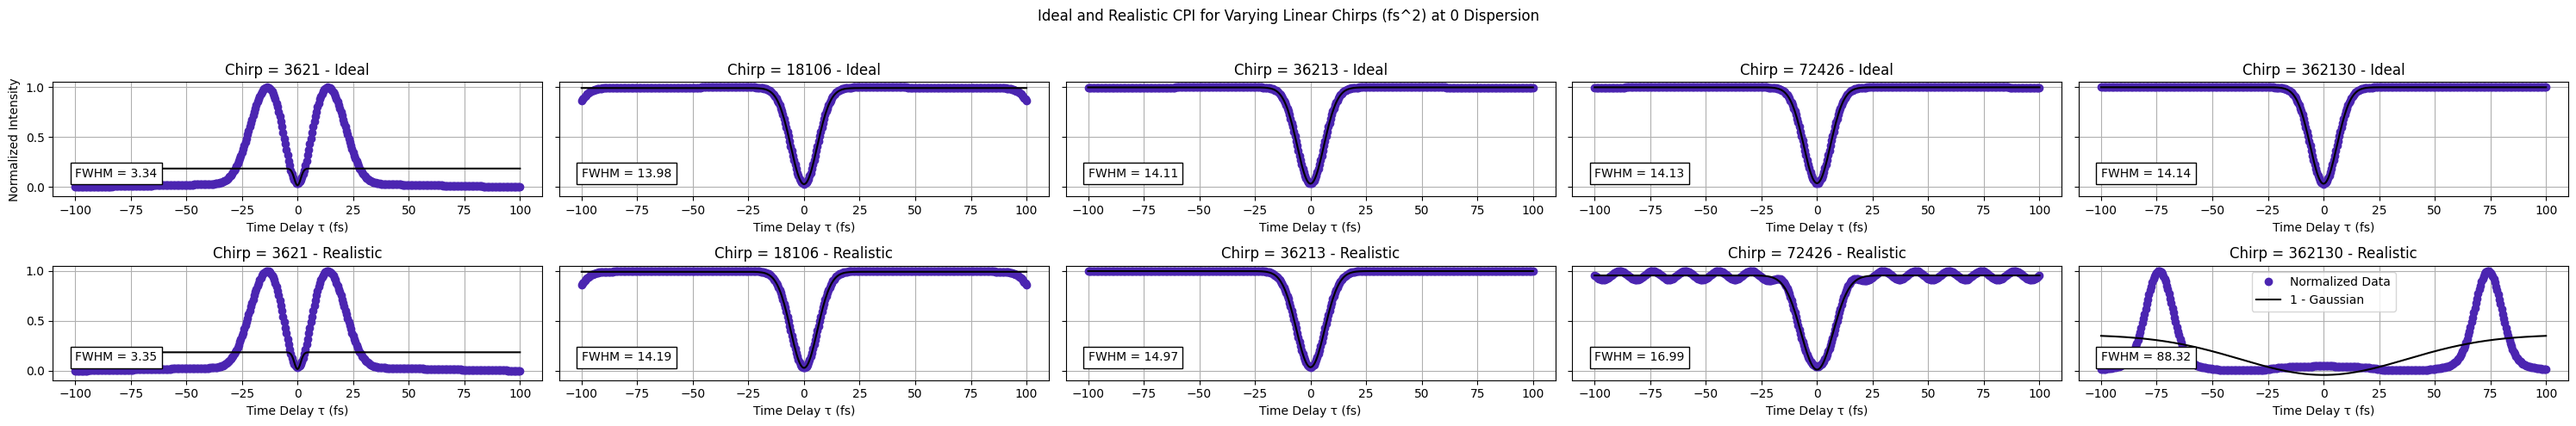
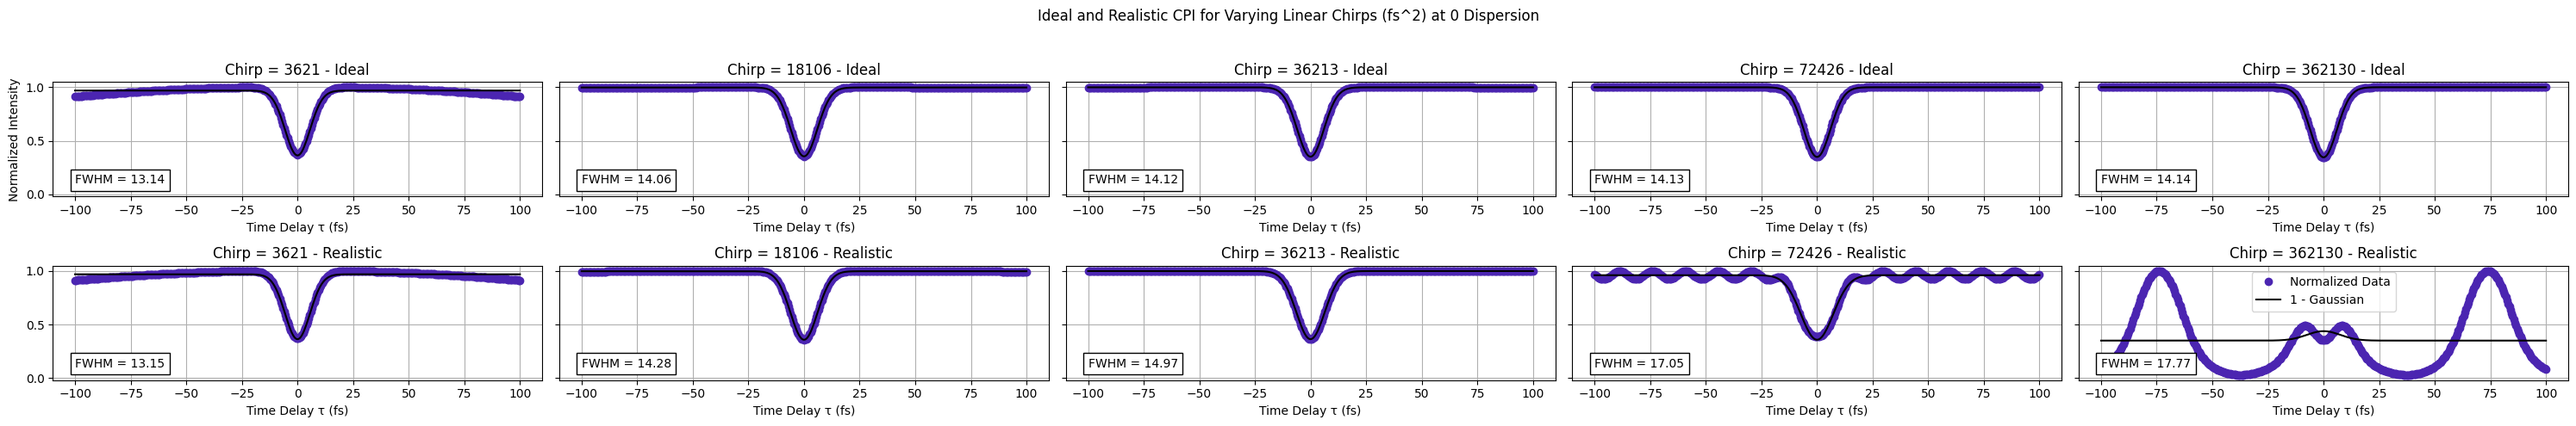
praying

diff --git a/noisy_maker.py b/noisy_maker.py
@@ -9,7 +9,6 @@ import argparse
 from tqdm import tqdm
 import shutil
 from scipy.stats import binned_statistic
-import random
 
 def Ereffer(Ec, Ea, w, tau):
     return (Ec + Ea) * np.exp(1j * w * tau)
@@ -22,7 +21,7 @@ def Esampler(Ec, Ea, phi):
 #Choose from "BK7", "Fused Silica", "Sapphire", "CaF2", or "SF10"
 def glass_type_epsilon(w, w0, material="BK7"):
     
-    c = 0.2998 #(*um/fs*)
+    c = 0.2998; #(*um/fs*)
     match material:
         case "BK7":
             b1 = 1.03961212 #(*for BK7 glass*)
@@ -231,7 +230,7 @@ def realistic_SLM_mask(mask_indices, ws):
 
     return SLM_mask
 
-def realistic_SLM_phase(ws, phase, mask_indices, num_pixels = 800, bit_depth = 2**8, noise_level = 0, noise_type = "gaussian"):
+def realistic_SLM_phase(ws, phase, mask_indices, num_pixels = 800, bit_depth = 2**8):
   
     ws_mod = ws[mask_indices]
     phi_mod = phase[mask_indices]  # UNWRAPPED phase!
@@ -249,37 +248,10 @@ def realistic_SLM_phase(ws, phase, mask_indices, num_pixels = 800, bit_depth = 2
     # Step 3: Wrap the binned phase
     phi_test = np.mod(phi_test, 2*np.pi)
 
-    gaussian_phi = np.copy(phi_test)
-
     #Step 4: Bit crushing
     phi_test = np.round(phi_test/(2*np.pi)*(bit_depth - 1))
     phi_test = phi_test/(bit_depth - 1) * np.pi * 2
 
-    binned_phi = np.copy(phi_test)
-
-    if noise_level != 0:
-        
-        #if uncertainty is gaussian, each phase point can have a random value with an x degree gaussian distribution centered on actual
-        #value, then do bit crushing as normal
-        if noise_type == "gaussian":
-            #trying to add in the random phase part
-            uncertainty_rad = noise_level*np.pi/180
-
-            for i in range(0, len(edge_indices) - 1):
-                gaussian_phi[edge_indices[i]:edge_indices[i+1]] = random.gauss(phi_test[edge_indices[i]], uncertainty_rad)
-            
-            gaussian_phi = np.round(gaussian_phi/(2*np.pi)*(bit_depth - 1))
-            gaussian_phi = gaussian_phi/(bit_depth - 1) * np.pi * 2
-
-            return gaussian_phi
-        
-        #if uncertainty is in bins, (e.g. noise level = 1), then value of ith bin is random within range of that many bins (e.g. i-1, i, i+1)
-        elif noise_type == "binned":
-            for i in range(noise_level, len(edge_indices) - 1 - noise_level):
-                binned_phi[edge_indices[i]:edge_indices[i+1]] = random.choice(phi_test[edge_indices[i - noise_level:i + noise_level + 1]])
-
-            return binned_phi
-     
     return phi_test
 
 '''
@@ -344,7 +316,6 @@ if __name__ == "__main__":
     parser.add_argument("--lin_chirp", type=int, default=-1)
     parser.add_argument("--erf_chirp", type=int, default=-1)
     parser.add_argument("--super_erf_chirp", type=int, default=-1)
-    parser.add_argument("--noise", action="store_false")
 
     args = parser.parse_args()
 
@@ -366,7 +337,6 @@ if __name__ == "__main__":
     max_lin_chirp = args.lin_chirp
     max_erf_chirp = args.erf_chirp
     max_superf_chirp = args.super_erf_chirp
-    noise = args.noise
 
     #################################
 
@@ -385,7 +355,7 @@ if __name__ == "__main__":
     SLM_mask = realistic_SLM_mask(mask_indices, ws)
     superf_SLM_mask = realistic_SLM_mask(superf_indices, ws)
 
-    
+
     # Remove existing folders (if not no_overwrite)
     folder = f"results/{folder_name}"
 
@@ -406,7 +376,6 @@ if __name__ == "__main__":
         f.write(f"{max_lin_chirp}\n")
         f.write(f"{max_erf_chirp}\n")
         f.write(f"{max_superf_chirp}\n")
-        f.write(f"{noise}\n")
         
 
     with open(f"results/{folder_name}/run_info.txt", 'w') as f:
@@ -420,7 +389,6 @@ if __name__ == "__main__":
         f.write(f"Estimated Max Linear Chirp: {max_lin_chirp}\n")
         f.write(f"Estimated Max Erf Chirp: {max_erf_chirp}\n")
         f.write(f"Estimated Max Super Erf Chirp: {max_superf_chirp}\n")
-        f.write(f"Noise Added: {noise}\n")
 
     print(f"📊 Sweeping {len(Lvals)} dispersion values")
 
@@ -429,7 +397,6 @@ if __name__ == "__main__":
 
     ws[0] = 1e-6
 
-    
     match dispersion_type:
         case "freshwater":
             epsilon = water_epsilon(ws, w_0, S = 0)
@@ -455,137 +422,59 @@ if __name__ == "__main__":
     def p(chirp_type, chirp, style):
         return f"./results/{folder_name}/{chirp_type}/chirp_{chirp}/{style}"
     
-    def p_noisy(chirp_type, noise_style, noise):
-        return f"./results/{folder_name}/{chirp_type}/{noise_style}_noise/{noise}"
+    # Create necessary folders
+    for style in ["gaussian", "binned"]:
+        os.makedirs(f"results/{folder_name}/linear/{style}", exist_ok=True)
+        os.makedirs(f"results/{folder_name}/erf/{style}", exist_ok=True)
+        os.makedirs(f"results/{folder_name}/super_erf/{style}", exist_ok=True)
 
-    #if running with noise is selected: this will just run at one chirp, but five different noise values (hardcoded), for both 
-    #gaussian and binned noise
-    if noise:
-        gaussian_noises = [0,5,10,15,20]
-        binned_noises = [0,1,2,4,6]
+    # Phase generation
+    lin_phase = lin_chirp(lin_chirps[i], ws, w_0)
+    erf_phase = erf_chirp(erf_chirps[i], ws, w_0, fwhm)
+    superf_phase = superf_chirp(superf_chirps[i], ws, w_0, sigma_s)
 
-        for style, noise in zip(["gaussian", "binned"], [gaussian_noises, binned_noises]):
-                for i in range(5):
-                    os.makedirs(f"results/{folder_name}/linear/{style}_noise/{noise[i]}", exist_ok=True)
-                    os.makedirs(f"results/{folder_name}/erf/{style}_noise/{noise[i]}", exist_ok=True)
-                    os.makedirs(f"results/{folder_name}/super_erf/{style}_noise/{noise[i]}", exist_ok=True)
+    Ec_lin_ideal = chirper(Ews, lin_phase)
+    Ea_lin_ideal = chirper(Ews, -lin_phase)
+    Ec_erf_ideal = chirper(Ews, erf_phase)
+    Ea_erf_ideal = chirper(Ews, -erf_phase)
+    Ec_superf_ideal = chirper(Ews, superf_phase)
+    Ea_superf_ideal = chirper(Ews, -superf_phase)
 
-        lin_phase = lin_chirp(max_lin_chirp, ws, w_0)
-        erf_phase = erf_chirp(max_erf_chirp, ws, w_0, fwhm)
-        superf_phase = superf_chirp(max_superf_chirp, ws, w_0, sigma_s)
+    lin_phase_realistic = realistic_SLM_phase(ws, lin_phase, mask_indices, num_pixels, bit_levels)
+    erf_phase_realistic = realistic_SLM_phase(ws, erf_phase, mask_indices, num_pixels, bit_levels)
+    superf_phase_realistic = realistic_SLM_phase(ws, superf_phase, superf_indices, num_pixels, bit_levels)
 
-        for i in range(5):
-            lin_gauss = realistic_SLM_phase(ws, lin_phase, mask_indices, num_pixels, bit_levels, gaussian_noises[i], "gaussian")
-            erf_gauss = realistic_SLM_phase(ws, erf_phase, mask_indices, num_pixels, bit_levels, gaussian_noises[i], "gaussian")
-            superf_gauss = realistic_SLM_phase(ws, superf_phase, superf_indices, num_pixels, bit_levels, gaussian_noises[i], "gaussian")
+    Ec_lin_realistic = chirper(Ews, lin_phase_realistic) * SLM_mask
+    Ea_lin_realistic = chirper(Ews, -lin_phase_realistic) * SLM_mask
+    Ec_erf_realistic = chirper(Ews, erf_phase_realistic) * SLM_mask
+    Ea_erf_realistic = chirper(Ews, -erf_phase_realistic) * SLM_mask
+    Ec_superf_realistic = chirper(Ews, superf_phase_realistic) * superf_SLM_mask
+    Ea_superf_realistic = chirper(Ews, -superf_phase_realistic) * superf_SLM_mask
 
-            lin_bin = realistic_SLM_phase(ws, lin_phase, mask_indices, num_pixels, bit_levels, binned_noises[i], "binned")
-            erf_bin = realistic_SLM_phase(ws, erf_phase, mask_indices, num_pixels, bit_levels, binned_noises[i], "binned")
-            superf_bin = realistic_SLM_phase(ws, superf_phase, superf_indices, num_pixels, bit_levels, binned_noises[i], "binned")
+    for L in Lvals:
+        
+        if no_overwrite:
+            if not os.path.exists(p("linear", lin_chirps[i],"ideal") + f"/L{L}.txt"):
+                tasks.append((L, Ec_lin_ideal, Ea_lin_ideal, ws, taus, epsilon, integration_range, p("linear", lin_chirps[i], "ideal")))
+            if not os.path.exists(p("erf", erf_chirps[i], "ideal") + f"/L{L}.txt"):
+                tasks.append((L, Ec_erf_ideal, Ea_erf_ideal, ws, taus, epsilon, integration_range, p("erf", erf_chirps[i], "ideal")))
+            if not os.path.exists(p("super_erf", superf_chirps[i], "ideal") + f"/L{L}.txt"):
+                tasks.append((L, Ec_superf_ideal, Ea_superf_ideal, ws, taus, epsilon, integration_range, p("super_erf", superf_chirps[i],"ideal")))
 
-            Ec_lin_gauss = chirper(Ews, lin_gauss) * SLM_mask
-            Ea_lin_gauss = chirper(Ews, -lin_gauss) * SLM_mask
-            Ec_erf_gauss = chirper(Ews, erf_gauss) * SLM_mask
-            Ea_erf_gauss = chirper(Ews, -erf_gauss) * SLM_mask
-            Ec_superf_gauss = chirper(Ews, superf_gauss) * superf_SLM_mask
-            Ea_superf_gauss = chirper(Ews, -superf_gauss) * superf_SLM_mask
+            if not os.path.exists(p("linear", lin_chirps[i], "realistic") + f"/L{L}.txt"):
+                tasks.append((L, Ec_lin_realistic, Ea_lin_realistic, ws, taus, epsilon, integration_range, p("linear", lin_chirps[i], "realistic")))
+            if not os.path.exists(p("erf", erf_chirps[i], "realistic") + f"/L{L}.txt"):
+                tasks.append((L, Ec_erf_realistic, Ea_erf_realistic, ws, taus, epsilon, integration_range, p("erf", erf_chirps[i], "realistic")))
+            if not os.path.exists(p("super_erf", superf_chirps[i], "realistic") + f"/L{L}.txt"):
+                tasks.append((L, Ec_superf_realistic, Ea_superf_realistic, ws, taus, epsilon, integration_range, p("super_erf", superf_chirps[i], "realistic")))
+        else:
+            tasks.append((L, Ec_lin_ideal, Ea_lin_ideal, ws, taus, epsilon, integration_range, p("linear", lin_chirps[i], "ideal")))
+            tasks.append((L, Ec_erf_ideal, Ea_erf_ideal, ws, taus, epsilon, integration_range, p("erf", erf_chirps[i], "ideal")))
+            tasks.append((L, Ec_superf_ideal, Ea_superf_ideal, ws, taus, epsilon, integration_range, p("super_erf", superf_chirps[i], "ideal")))
 
-            Ec_lin_bin = chirper(Ews, lin_bin) * SLM_mask
-            Ea_lin_bin = chirper(Ews, -lin_bin) * SLM_mask
-            Ec_erf_bin = chirper(Ews, erf_bin) * SLM_mask
-            Ea_erf_bin = chirper(Ews, -erf_bin) * SLM_mask
-            Ec_superf_bin = chirper(Ews, superf_bin) * superf_SLM_mask
-            Ea_superf_bin = chirper(Ews, -superf_bin) * superf_SLM_mask
-
-            for L in Lvals:
-                
-                if no_overwrite:
-                    if not os.path.exists(p_noisy("linear", "gaussian", gaussian_noises[i]) + f"/L{L}.txt"):
-                        tasks.append((L, Ec_lin_gauss, Ea_lin_gauss, ws, taus, epsilon, integration_range, p_noisy("linear", "gaussian", gaussian_noises[i])))
-                    if not os.path.exists(p_noisy("erf", "gaussian", gaussian_noises[i]) + f"/L{L}.txt"):
-                        tasks.append((L, Ec_erf_gauss, Ea_erf_gauss, ws, taus, epsilon, integration_range, p_noisy("erf", "gaussian", gaussian_noises[i])))
-                    if not os.path.exists(p_noisy("super_erf", "gaussian", gaussian_noises[i]) + f"/L{L}.txt"):
-                        tasks.append((L, Ec_superf_gauss, Ea_superf_gauss, ws, taus, epsilon, integration_range, p_noisy("super_erf", "gaussian", gaussian_noises[i])))
-
-                    if not os.path.exists(p_noisy("linear", "binned", binned_noises[i]) + f"/L{L}.txt"):
-                        tasks.append((L, Ec_lin_bin, Ea_lin_bin, ws, taus, epsilon, integration_range, p_noisy("linear", "binned", binned_noises[i])))
-                    if not os.path.exists(p_noisy("erf", "binned", binned_noises[i]) + f"/L{L}.txt"):
-                        tasks.append((L, Ec_erf_bin, Ea_erf_bin, ws, taus, epsilon, integration_range, p_noisy("erf", "binned", binned_noises[i])))
-                    if not os.path.exists(p_noisy("super_erf", "binned", binned_noises[i]) + f"/L{L}.txt"):
-                        tasks.append((L, Ec_superf_bin, Ea_superf_bin, ws, taus, epsilon, integration_range, p_noisy("super_erf", "binned", binned_noises[i])))
-                else:
-                    tasks.append((L, Ec_lin_gauss, Ea_lin_gauss, ws, taus, epsilon, integration_range, p_noisy("linear", "gaussian", gaussian_noises[i])))
-                    tasks.append((L, Ec_erf_gauss, Ea_erf_gauss, ws, taus, epsilon, integration_range, p_noisy("erf", "gaussian", gaussian_noises[i])))
-                    tasks.append((L, Ec_superf_gauss, Ea_superf_gauss, ws, taus, epsilon, integration_range, p_noisy("super_erf", "gaussian", gaussian_noises[i])))
-
-                    tasks.append((L, Ec_lin_bin, Ea_lin_bin, ws, taus, epsilon, integration_range, p_noisy("linear", "binned", binned_noises[i])))
-                    tasks.append((L, Ec_erf_bin, Ea_erf_bin, ws, taus, epsilon, integration_range, p_noisy("erf", "binned", binned_noises[i])))
-                    tasks.append((L, Ec_superf_bin, Ea_superf_bin, ws, taus, epsilon, integration_range, p_noisy("super_erf", "binned", binned_noises[i])))
-
-
-
-    #if noise isnt selected, will run at five chirp values (hardcoded), for realistic and ideal SLM cases
-    else:
-        lin_chirps = [round(num) for num in [max_lin_chirp/10, max_lin_chirp/2, max_lin_chirp, 2*max_lin_chirp, 10*max_lin_chirp]]
-        erf_chirps = [round(num) for num in [max_erf_chirp/10, max_erf_chirp/2, max_erf_chirp, 2*max_erf_chirp, 10*max_erf_chirp]]
-        superf_chirps = [round(num) for num in [max_superf_chirp/10, max_superf_chirp/2, max_superf_chirp, 2*max_superf_chirp, 10*max_superf_chirp]]
-
-
-        for i in range(5):
-
-            # Create necessary folders
-            for style in ["ideal", "realistic"]:
-                os.makedirs(f"results/{folder_name}/linear/chirp_{lin_chirps[i]}/{style}", exist_ok=True)
-                os.makedirs(f"results/{folder_name}/erf/chirp_{erf_chirps[i]}/{style}", exist_ok=True)
-                os.makedirs(f"results/{folder_name}/super_erf/chirp_{superf_chirps[i]}/{style}", exist_ok=True)
-
-            # Phase generation
-            lin_phase = lin_chirp(lin_chirps[i], ws, w_0)
-            erf_phase = erf_chirp(erf_chirps[i], ws, w_0, fwhm)
-            superf_phase = superf_chirp(superf_chirps[i], ws, w_0, sigma_s)
-
-            Ec_lin_ideal = chirper(Ews, lin_phase)
-            Ea_lin_ideal = chirper(Ews, -lin_phase)
-            Ec_erf_ideal = chirper(Ews, erf_phase)
-            Ea_erf_ideal = chirper(Ews, -erf_phase)
-            Ec_superf_ideal = chirper(Ews, superf_phase)
-            Ea_superf_ideal = chirper(Ews, -superf_phase)
-
-            lin_phase_realistic = realistic_SLM_phase(ws, lin_phase, mask_indices, num_pixels, bit_levels)
-            erf_phase_realistic = realistic_SLM_phase(ws, erf_phase, mask_indices, num_pixels, bit_levels)
-            superf_phase_realistic = realistic_SLM_phase(ws, superf_phase, superf_indices, num_pixels, bit_levels)
-
-            Ec_lin_realistic = chirper(Ews, lin_phase_realistic) * SLM_mask
-            Ea_lin_realistic = chirper(Ews, -lin_phase_realistic) * SLM_mask
-            Ec_erf_realistic = chirper(Ews, erf_phase_realistic) * SLM_mask
-            Ea_erf_realistic = chirper(Ews, -erf_phase_realistic) * SLM_mask
-            Ec_superf_realistic = chirper(Ews, superf_phase_realistic) * superf_SLM_mask
-            Ea_superf_realistic = chirper(Ews, -superf_phase_realistic) * superf_SLM_mask
-
-            for L in Lvals:
-                
-                if no_overwrite:
-                    if not os.path.exists(p("linear", lin_chirps[i],"ideal") + f"/L{L}.txt"):
-                        tasks.append((L, Ec_lin_ideal, Ea_lin_ideal, ws, taus, epsilon, integration_range, p("linear", lin_chirps[i], "ideal")))
-                    if not os.path.exists(p("erf", erf_chirps[i], "ideal") + f"/L{L}.txt"):
-                        tasks.append((L, Ec_erf_ideal, Ea_erf_ideal, ws, taus, epsilon, integration_range, p("erf", erf_chirps[i], "ideal")))
-                    if not os.path.exists(p("super_erf", superf_chirps[i], "ideal") + f"/L{L}.txt"):
-                        tasks.append((L, Ec_superf_ideal, Ea_superf_ideal, ws, taus, epsilon, integration_range, p("super_erf", superf_chirps[i],"ideal")))
-
-                    if not os.path.exists(p("linear", lin_chirps[i], "realistic") + f"/L{L}.txt"):
-                        tasks.append((L, Ec_lin_realistic, Ea_lin_realistic, ws, taus, epsilon, integration_range, p("linear", lin_chirps[i], "realistic")))
-                    if not os.path.exists(p("erf", erf_chirps[i], "realistic") + f"/L{L}.txt"):
-                        tasks.append((L, Ec_erf_realistic, Ea_erf_realistic, ws, taus, epsilon, integration_range, p("erf", erf_chirps[i], "realistic")))
-                    if not os.path.exists(p("super_erf", superf_chirps[i], "realistic") + f"/L{L}.txt"):
-                        tasks.append((L, Ec_superf_realistic, Ea_superf_realistic, ws, taus, epsilon, integration_range, p("super_erf", superf_chirps[i], "realistic")))
-                else:
-                    tasks.append((L, Ec_lin_ideal, Ea_lin_ideal, ws, taus, epsilon, integration_range, p("linear", lin_chirps[i], "ideal")))
-                    tasks.append((L, Ec_erf_ideal, Ea_erf_ideal, ws, taus, epsilon, integration_range, p("erf", erf_chirps[i], "ideal")))
-                    tasks.append((L, Ec_superf_ideal, Ea_superf_ideal, ws, taus, epsilon, integration_range, p("super_erf", superf_chirps[i], "ideal")))
-
-                    tasks.append((L, Ec_lin_realistic, Ea_lin_realistic, ws, taus, epsilon, integration_range, p("linear", lin_chirps[i], "realistic")))
-                    tasks.append((L, Ec_erf_realistic, Ea_erf_realistic, ws, taus, epsilon, integration_range, p("erf", erf_chirps[i], "realistic")))
-                    tasks.append((L, Ec_superf_realistic, Ea_superf_realistic, ws, taus, epsilon, integration_range, p("super_erf", superf_chirps[i], "realistic")))
+            tasks.append((L, Ec_lin_realistic, Ea_lin_realistic, ws, taus, epsilon, integration_range, p("linear", lin_chirps[i], "realistic")))
+            tasks.append((L, Ec_erf_realistic, Ea_erf_realistic, ws, taus, epsilon, integration_range, p("erf", erf_chirps[i], "realistic")))
+            tasks.append((L, Ec_superf_realistic, Ea_superf_realistic, ws, taus, epsilon, integration_range, p("super_erf", superf_chirps[i], "realistic")))
 
             
     # Run in parallel using 4 workers
